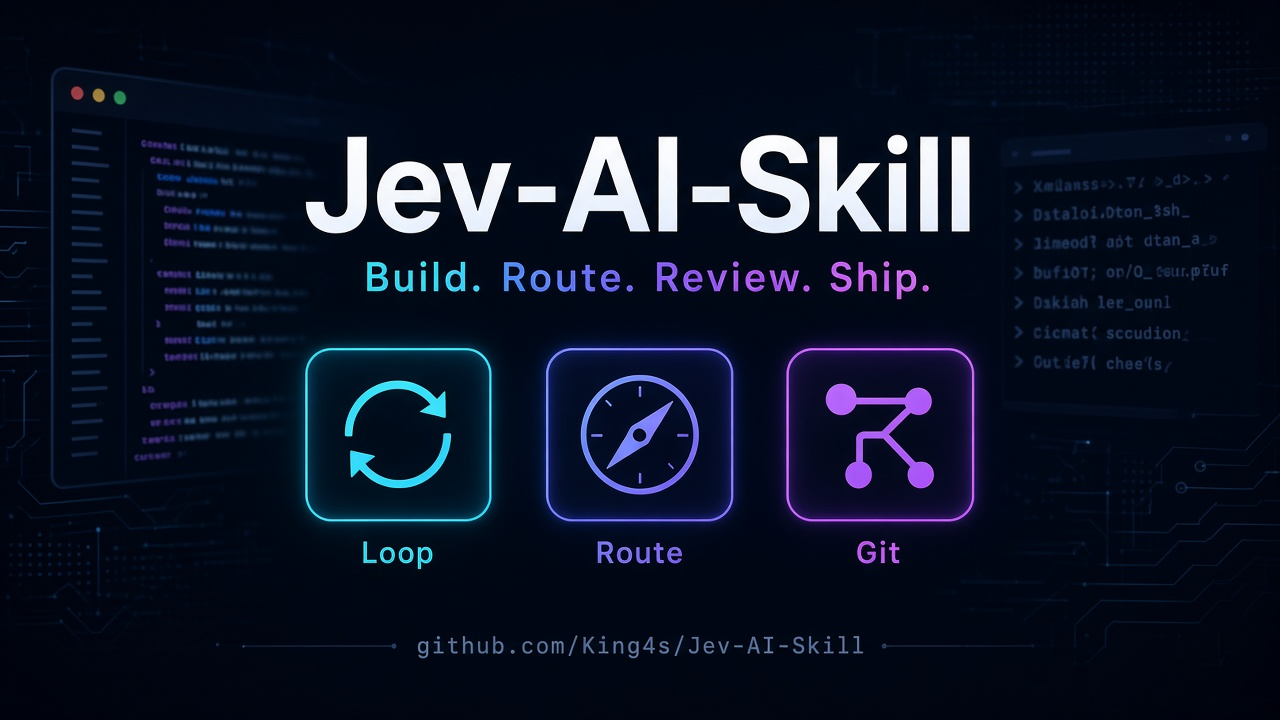
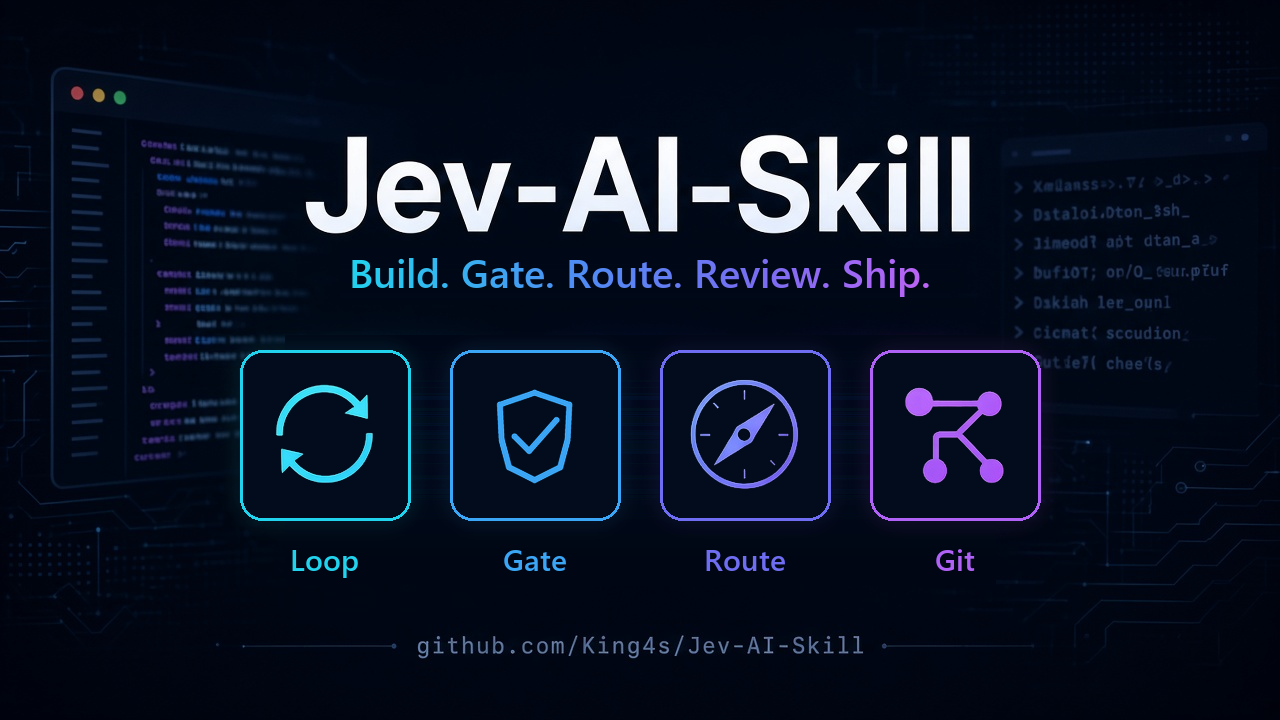
Show Gate, --watch and the shared server at the top of the README
The introduction and banner still described three capabilities. The README
now opens with a list of everything the skill offers, including the four Gate
tools, --watch and the shared HTTP server, and the banner adds a Gate tile.

Changed region(s): [[0.1875, 0.4583, 0.8125, 0.7944], [0.25, 0.3361, 0.7188, 0.4278], [0.2188, 0.7639, 0.3438, 0.7944]]

diff --git a/README.md b/README.md
@@ -1,17 +1,36 @@
 # Jev-AI-Skill
 
-![Jev-AI-Skill — Build. Route. Review. Ship. Loop, Route and Git.](assets/jev-ai-skill-banner.png)
+![Jev-AI-Skill — Build. Gate. Route. Review. Ship. Loop, Gate, Route and Git.](assets/jev-ai-skill-banner.png)
 
 [![tests](https://github.com/King4s/Jev-AI-Skill/actions/workflows/test.yml/badge.svg)](https://github.com/King4s/Jev-AI-Skill/actions/workflows/test.yml)
 
-**One workflow for your AI coding tools: build, choose the right help, review and publish.**
+**One workflow for your AI coding tools: build, skip the large-model turns you don't need,
+choose the right help, review and publish.**
 
-Jev-AI-Skill brings four capabilities together in one reusable skill, plus a code-search
-helper for finding and fixing existing code (`find_code.py`) and a script-only watch mode
-for recurring checks (`--watch`). Describe what you
-want to achieve, and your AI assistant gets a structured way to work toward it, check the
-result and prepare the next Git step. Jev, the decision model from TypeSafe System One,
-provides judgments; your AI coding tool performs the work.
+Jev-AI-Skill is one skill and one MCP server for **Claude Code, Codex and Hermes**. Jev,
+the fast decision model from TypeSafe System One, makes the small judgments; your AI
+coding tool does the work. Describe what you want to achieve, and your assistant gets a
+structured way to work toward it, check the result and prepare the next Git step, while
+Jev keeps large models out of turns a single cheap decision can settle.
+
+### What you get
+
+- **Loop** builds, finds and fixes code with configured checks and an independent review.
+- **Gate** asks Jev before a large model runs, with four MCP tools:
+  - `gate_triage` decides whether a cron run, poll, notification or chat event needs an
+    agent at all.
+  - `gate_verdict` checks which review findings the evidence already closes before
+    another review round.
+  - `gate_decide` answers a question you would otherwise be asked, and says when you
+    really must decide.
+  - `gate_pick` chooses a tool, skill or session from one-line descriptions.
+- **`--watch`** runs a recurring check with no agent: silent on success, and a new failure
+  is reported once.
+- **`--http` and `JEV_MCP_URL`** let every machine on your private network share one
+  always-on server.
+- **Route** picks a model tier, a skill and whether to delegate.
+- **Git** recommends commit, push or pull-request steps within repository rules.
+- **`find_code.py`** ranks code-search results so a coding model reads less.
 
 | Capability | What it does | Why it helps |
 | --- | --- | --- |

diff --git a/CHANGELOG.md b/CHANGELOG.md
@@ -5,6 +5,10 @@ New releases are made with `.\release.ps1`.
 
 ## [Unreleased]
 
+### Changed
+- The README opens with everything the skill now offers (Gate tools, `--watch`, the
+  shared HTTP server) and the banner shows Gate beside Loop, Route and Git.
+
 ## [2026.09.28.1831] - 2026-09-28
 
 ### Changed
